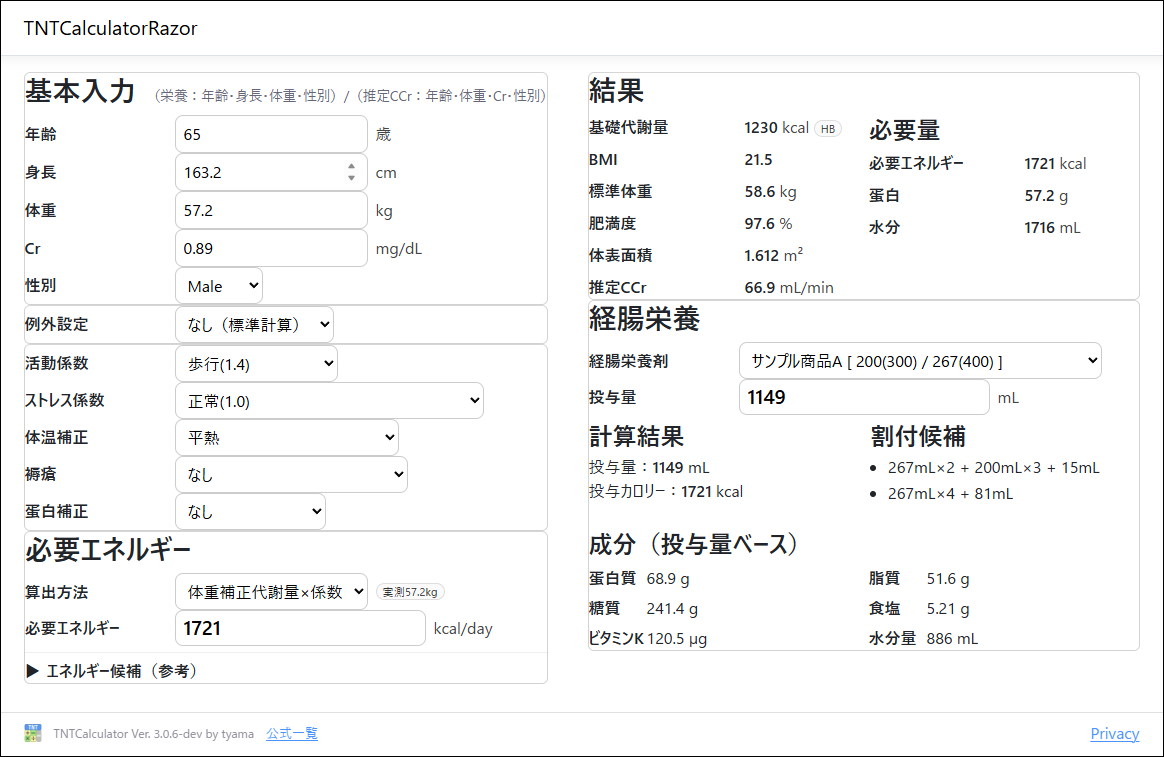
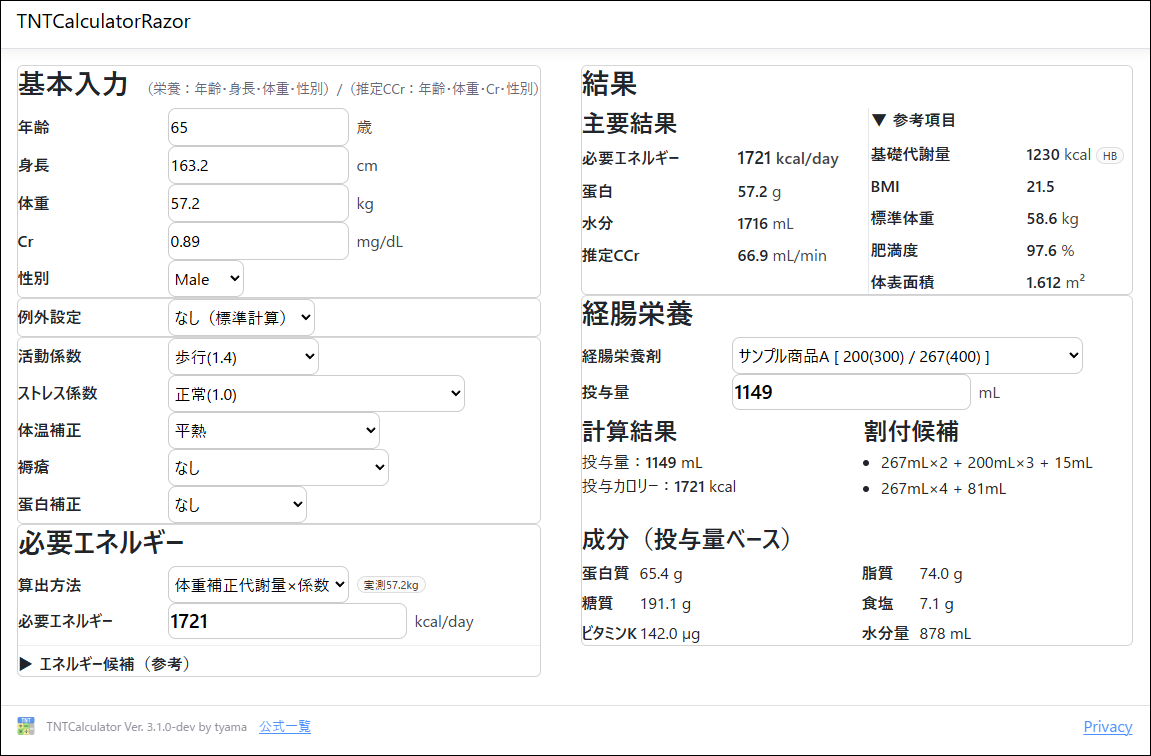
結果欄区切り線padding調整, Screenshot更新

diff --git a/TNTCalculatorRazor/wwwroot/css/site.css b/TNTCalculatorRazor/wwwroot/css/site.css
@@ -672,8 +672,8 @@ details summary {
 
     .result-card .two-col > div + div {
         border-left: 1px solid #e3e8ed;
-        padding-left: 12px;
-        margin-left: 8px;
+        padding-left: 2px;
+        margin-left: 6px;
     }
 }
 
